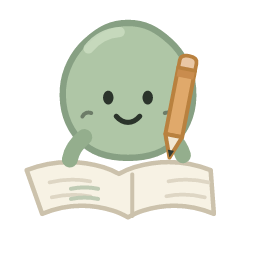
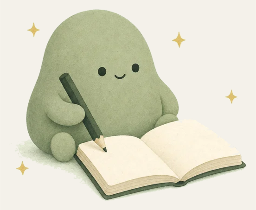
Replace the mascot with the illustrated artwork

diff --git a/docs/404.html b/docs/404.html
@@ -28,7 +28,7 @@
 
     <main class="container" style="padding: 70px 0 100px">
       <div style="max-width: 560px">
-        <img src="/assets/mascot-256.png" loading="lazy" width="120" height="120" alt="Jotty mascot holding a pencil" style="margin-bottom: 24px" />
+        <img src="/assets/mascot-256.png" loading="lazy" width="150" height="123" alt="Jotty mascot holding a pencil" style="margin-bottom: 24px" />
         <h1 style="font-size: clamp(34px, 5vw, 52px)">This page is not on the shelf.</h1>
         <p class="article-lede">
           The address does not exist, or it moved. The extension is unaffected. Nothing was logged

diff --git a/docs/index.html b/docs/index.html
@@ -856,6 +856,7 @@
       <div class="container">
         <div class="footer-top">
           <div class="footer-brand">
+            <img class="footer-mascot" src="assets/mascot-256.png" width="128" height="105" alt="" loading="lazy" />
             <a class="brand" href="#top">
               <img src="assets/icon-48.png" width="28" height="28" alt="" />
               <span class="brand-text"><span class="brand-name">Jotty</span></span>

diff --git a/docs/styles.css b/docs/styles.css
@@ -1820,6 +1820,12 @@ button {
   }
 }
 
+.footer-mascot {
+  display: block;
+  margin: 0 0 14px -6px;
+  border-radius: 4px;
+}
+
 .footer-brand p {
   font-size: 13px;
   color: var(--muted);

diff --git a/README.md b/README.md
@@ -1,6 +1,6 @@
 <div align="center">
 
-<img src="docs/assets/logo.svg" width="96" height="96" alt="Jotty mascot: a sage-green blob holding a pencil over an open notebook" />
+<img src="docs/assets/mascot-512.png" width="150" alt="Jotty mascot: a sage-green blob holding a pencil over an open notebook" />
 
 # Jotty
 
@@ -323,8 +323,10 @@ Search results are cached in memory for thirty minutes. Quota use is counted and
 │       ├── storage.js              # one versioned object + guarded key reader
 │       └── text.js                 # tokenising, stemming, dates, durations
 ├── tests/                          # 66 Node tests: logic, storage, security, pipeline
+├── assets/brand/mascot.png         # source illustration, composited on paper
 ├── tools/
 │   ├── build-assets.mjs            # rasterises icons, favicons, badges
+│   ├── build-mascot.mjs             # resizes the illustrated mascot
 │   ├── build-previews.mjs          # renders README and store previews with satori
 │   ├── check-docs.mjs              # link, asset, a11y and copy checks for docs/
 │   └── render-svg.mjs              # small SVG to PNG helper
@@ -335,7 +337,8 @@ Search results are cached in memory for thirty minutes. Quota use is counted and
     ├── site.js                     # demo wiring; no third-party code
     ├── assets/
     │   ├── engine.js               # generated demo bundle
-    │   ├── logo.svg, icon.svg      # mascot and simplified mark
+    │   ├── mascot-512.png, mascot-256.png  # illustrated mascot
+    │   ├── icon.svg                # simplified toolbar mark
     │   ├── fonts/                  # self-hosted woff2 (no font CDN)
     │   ├── screenshots/            # interface previews used above
     │   ├── architecture.svg
